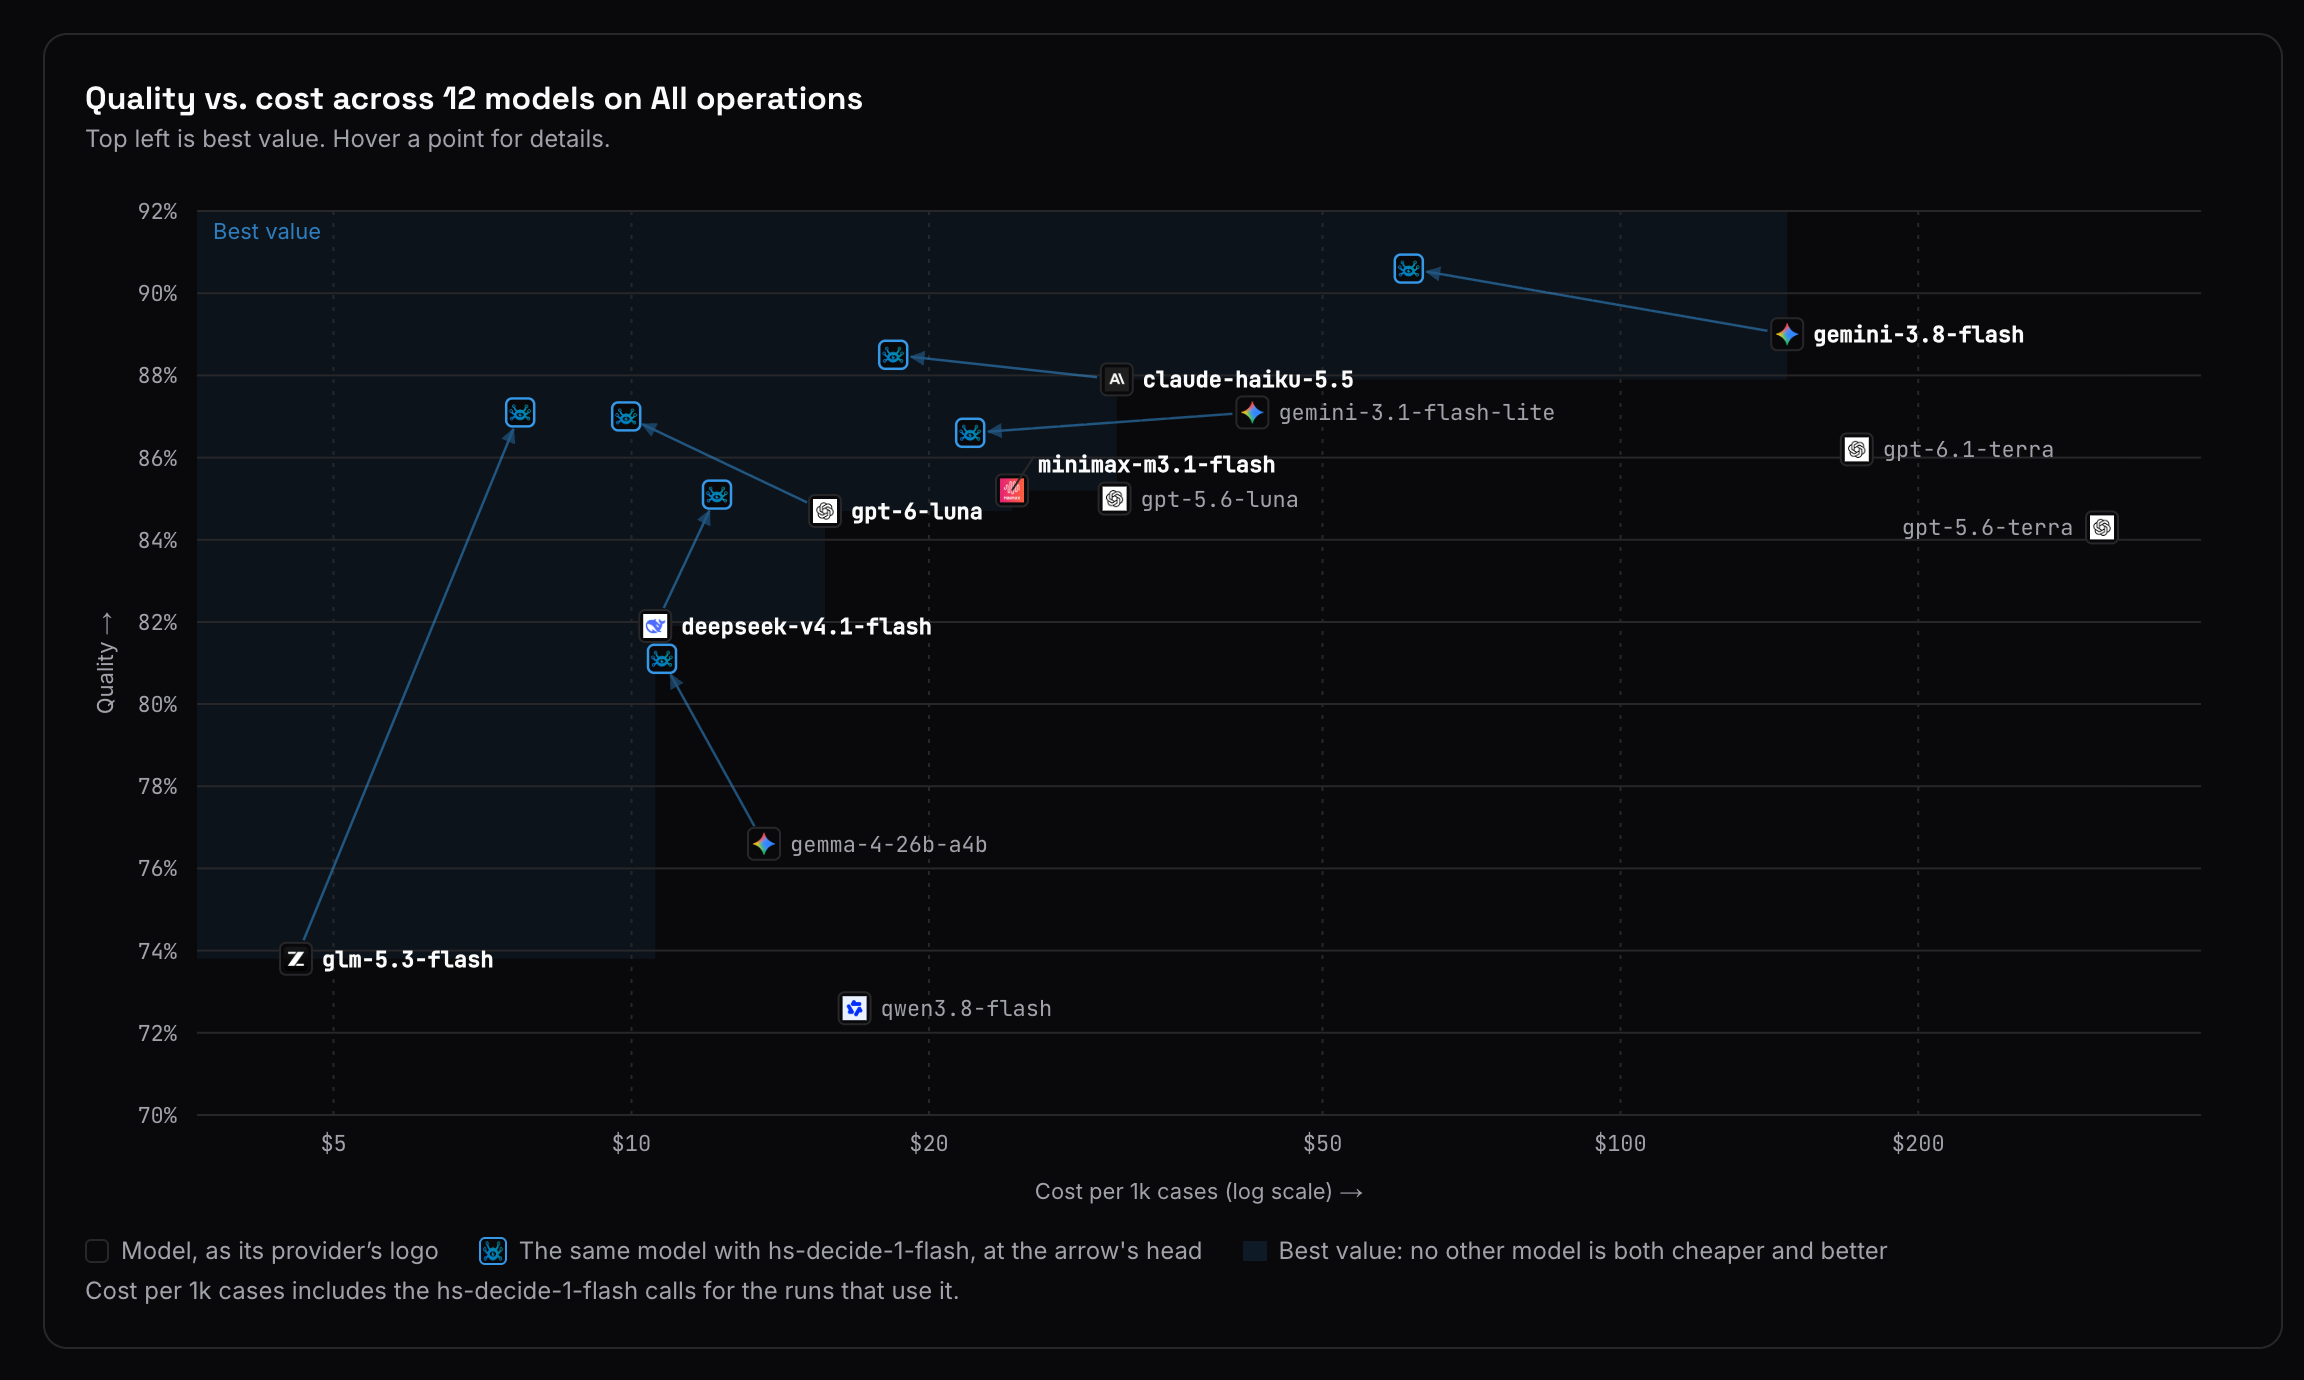
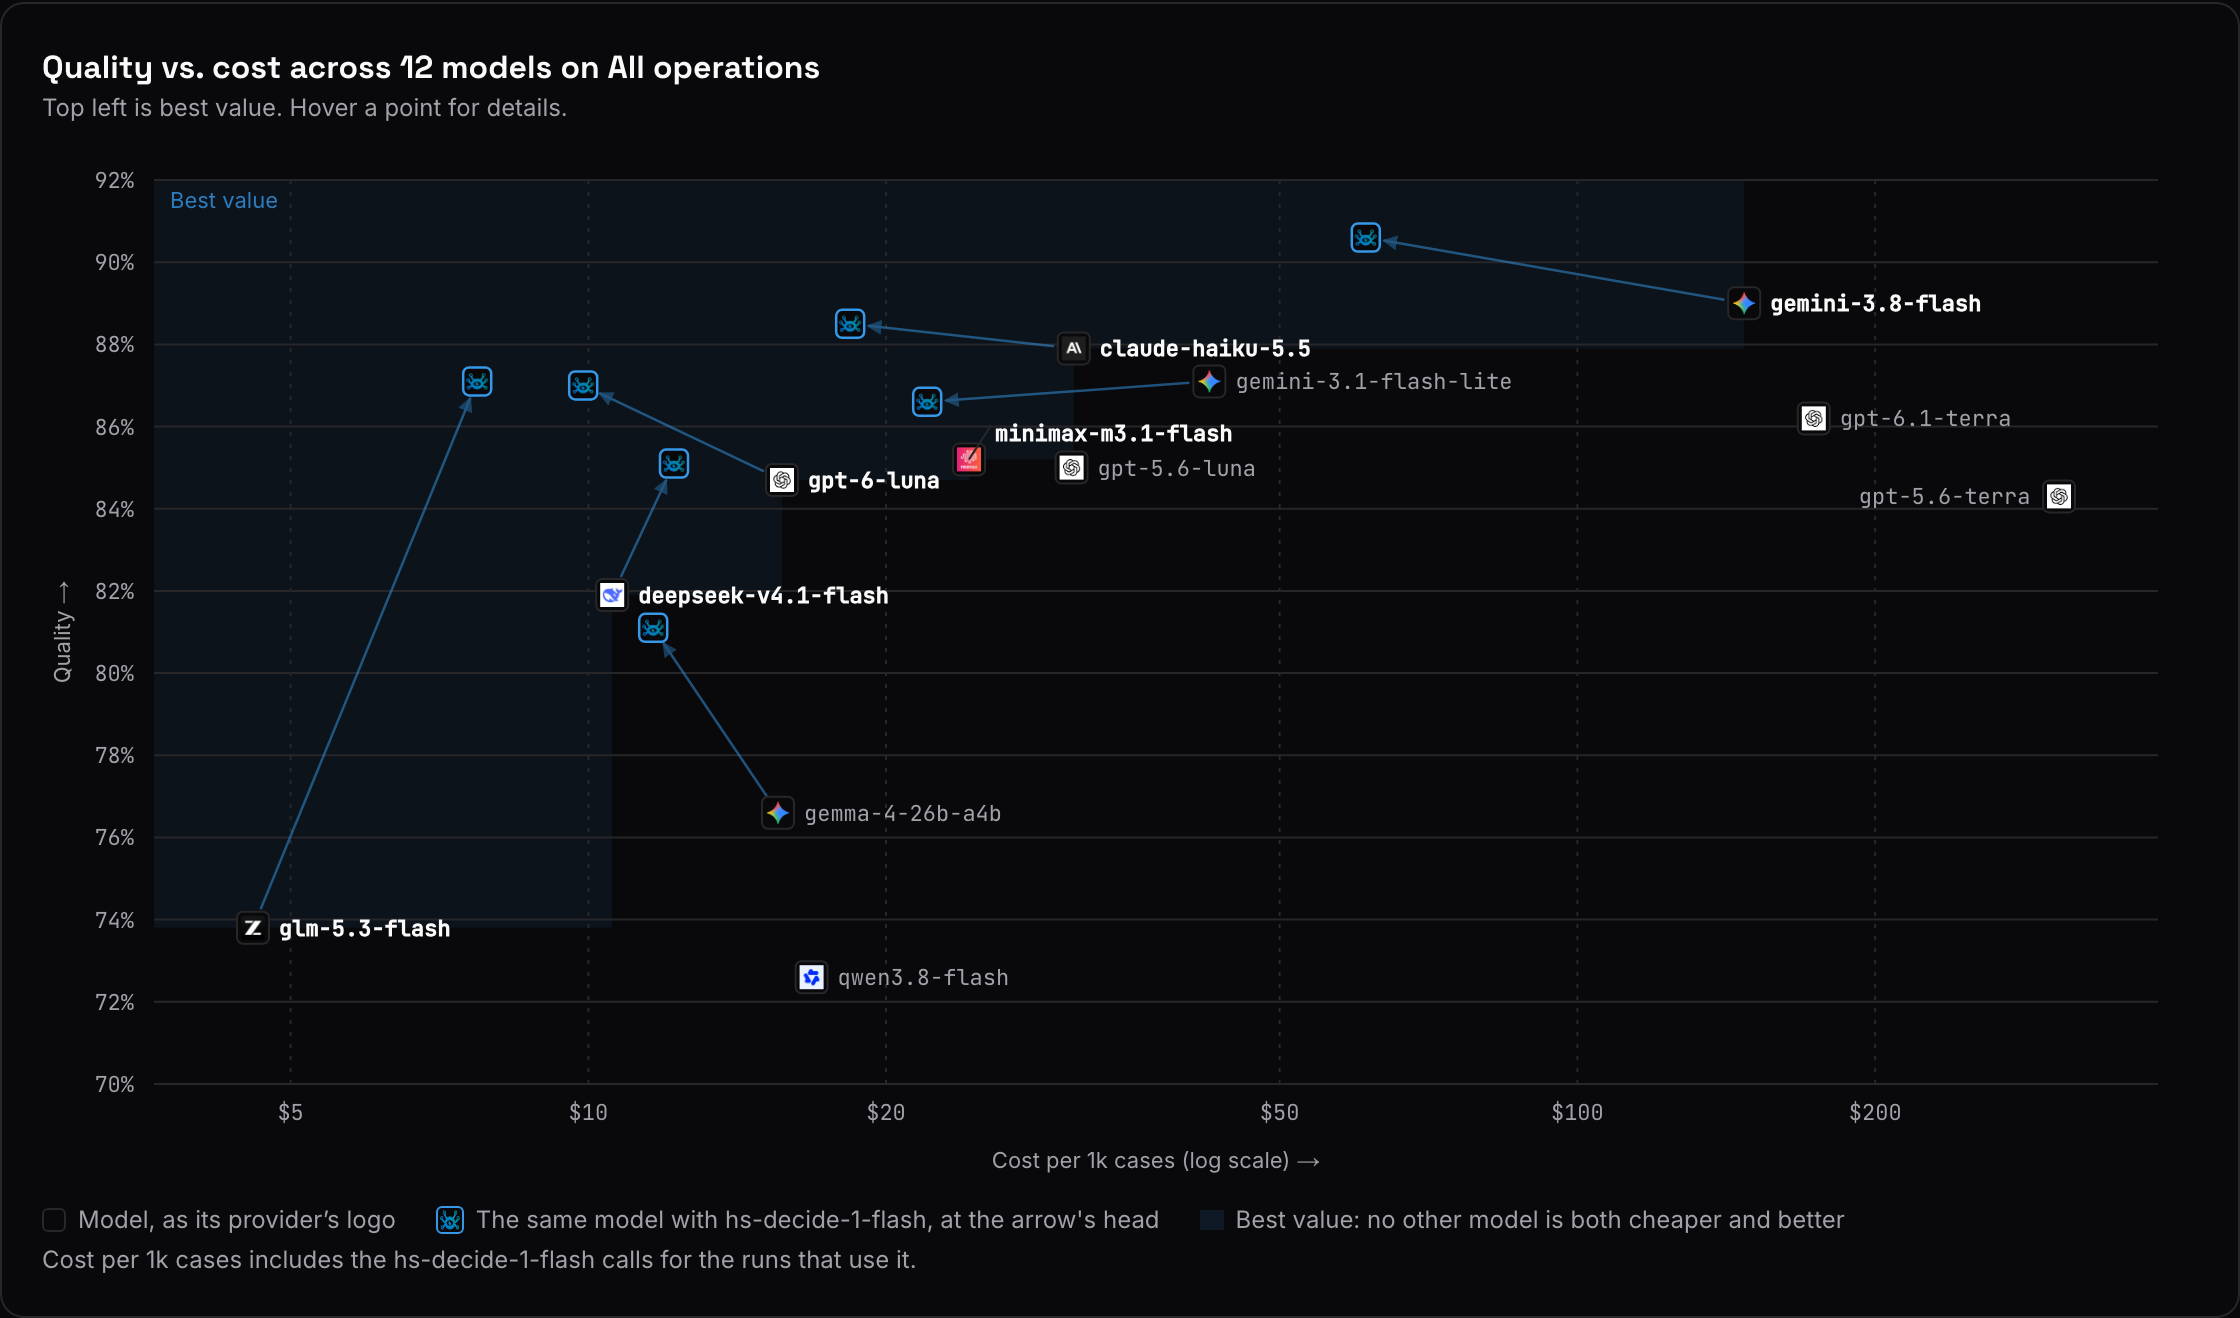
blog: gemma priced at OpenRouter's list price, like every other LLM; charts redrawn

diff --git a/hindsight-docs/blog/2026-11-03-hindsight-models.md b/hindsight-docs/blog/2026-11-03-hindsight-models.md
@@ -83,7 +83,7 @@ Each chart plots quality against cost, one point per LLM; an arrow joins an LLM 
 
 </div>
 
-Quality goes up for six of the seven LLMs, most for the ones that need it most (`glm-5.3-flash` 73.8 → 87.1, `gemma-4-26b-a4b` 76.6 → 81.1, `deepseek-v4.1-flash` 81.9 → 85.1), and holds level for `gemini-3.1-flash-lite` (87.1 → 86.6). The LLM makes about a third fewer calls and reads half the input tokens or less, so five of them get cheaper: `gemini-3.8-flash` $147 → $61 (2.4x less), `gemini-3.1-flash-lite` $42 → $22, `claude-haiku-5.5` $31 → $18, `gpt-6-luna` $16 → $9.88, `gemma-4-26b-a4b` $14 → $11. Time in model calls drops for all seven, from 1.2x (`gemini-3.1-flash-lite`) to 1.9x (`gemini-3.8-flash`).
+Quality goes up for six of the seven LLMs, most for the ones that need it most (`glm-5.3-flash` 73.8 → 87.1, `gemma-4-26b-a4b` 76.6 → 81.1, `deepseek-v4.1-flash` 81.9 → 85.1), and holds level for `gemini-3.1-flash-lite` (87.1 → 86.6). The LLM makes about a third fewer calls and reads half the input tokens or less, so five of them get cheaper: `gemini-3.8-flash` $147 → $61 (2.4x less), `gemini-3.1-flash-lite` $42 → $22, `claude-haiku-5.5` $31 → $18, `gpt-6-luna` $16 → $9.88, `gemma-4-26b-a4b` $16 → $12. Time in model calls drops for all seven, from 1.2x (`gemini-3.1-flash-lite`) to 1.9x (`gemini-3.8-flash`).
 
 Retain doesn't use the decision model, so it costs the same either way and waters down the totals above. Leave it out and count only consolidation, reflect and knowledge pages, the operations the decision model takes part in: on `gemini-3.8-flash` they cost 2.5x less, spend 1.9x less time in model calls, and score 2.2 points higher.
 
